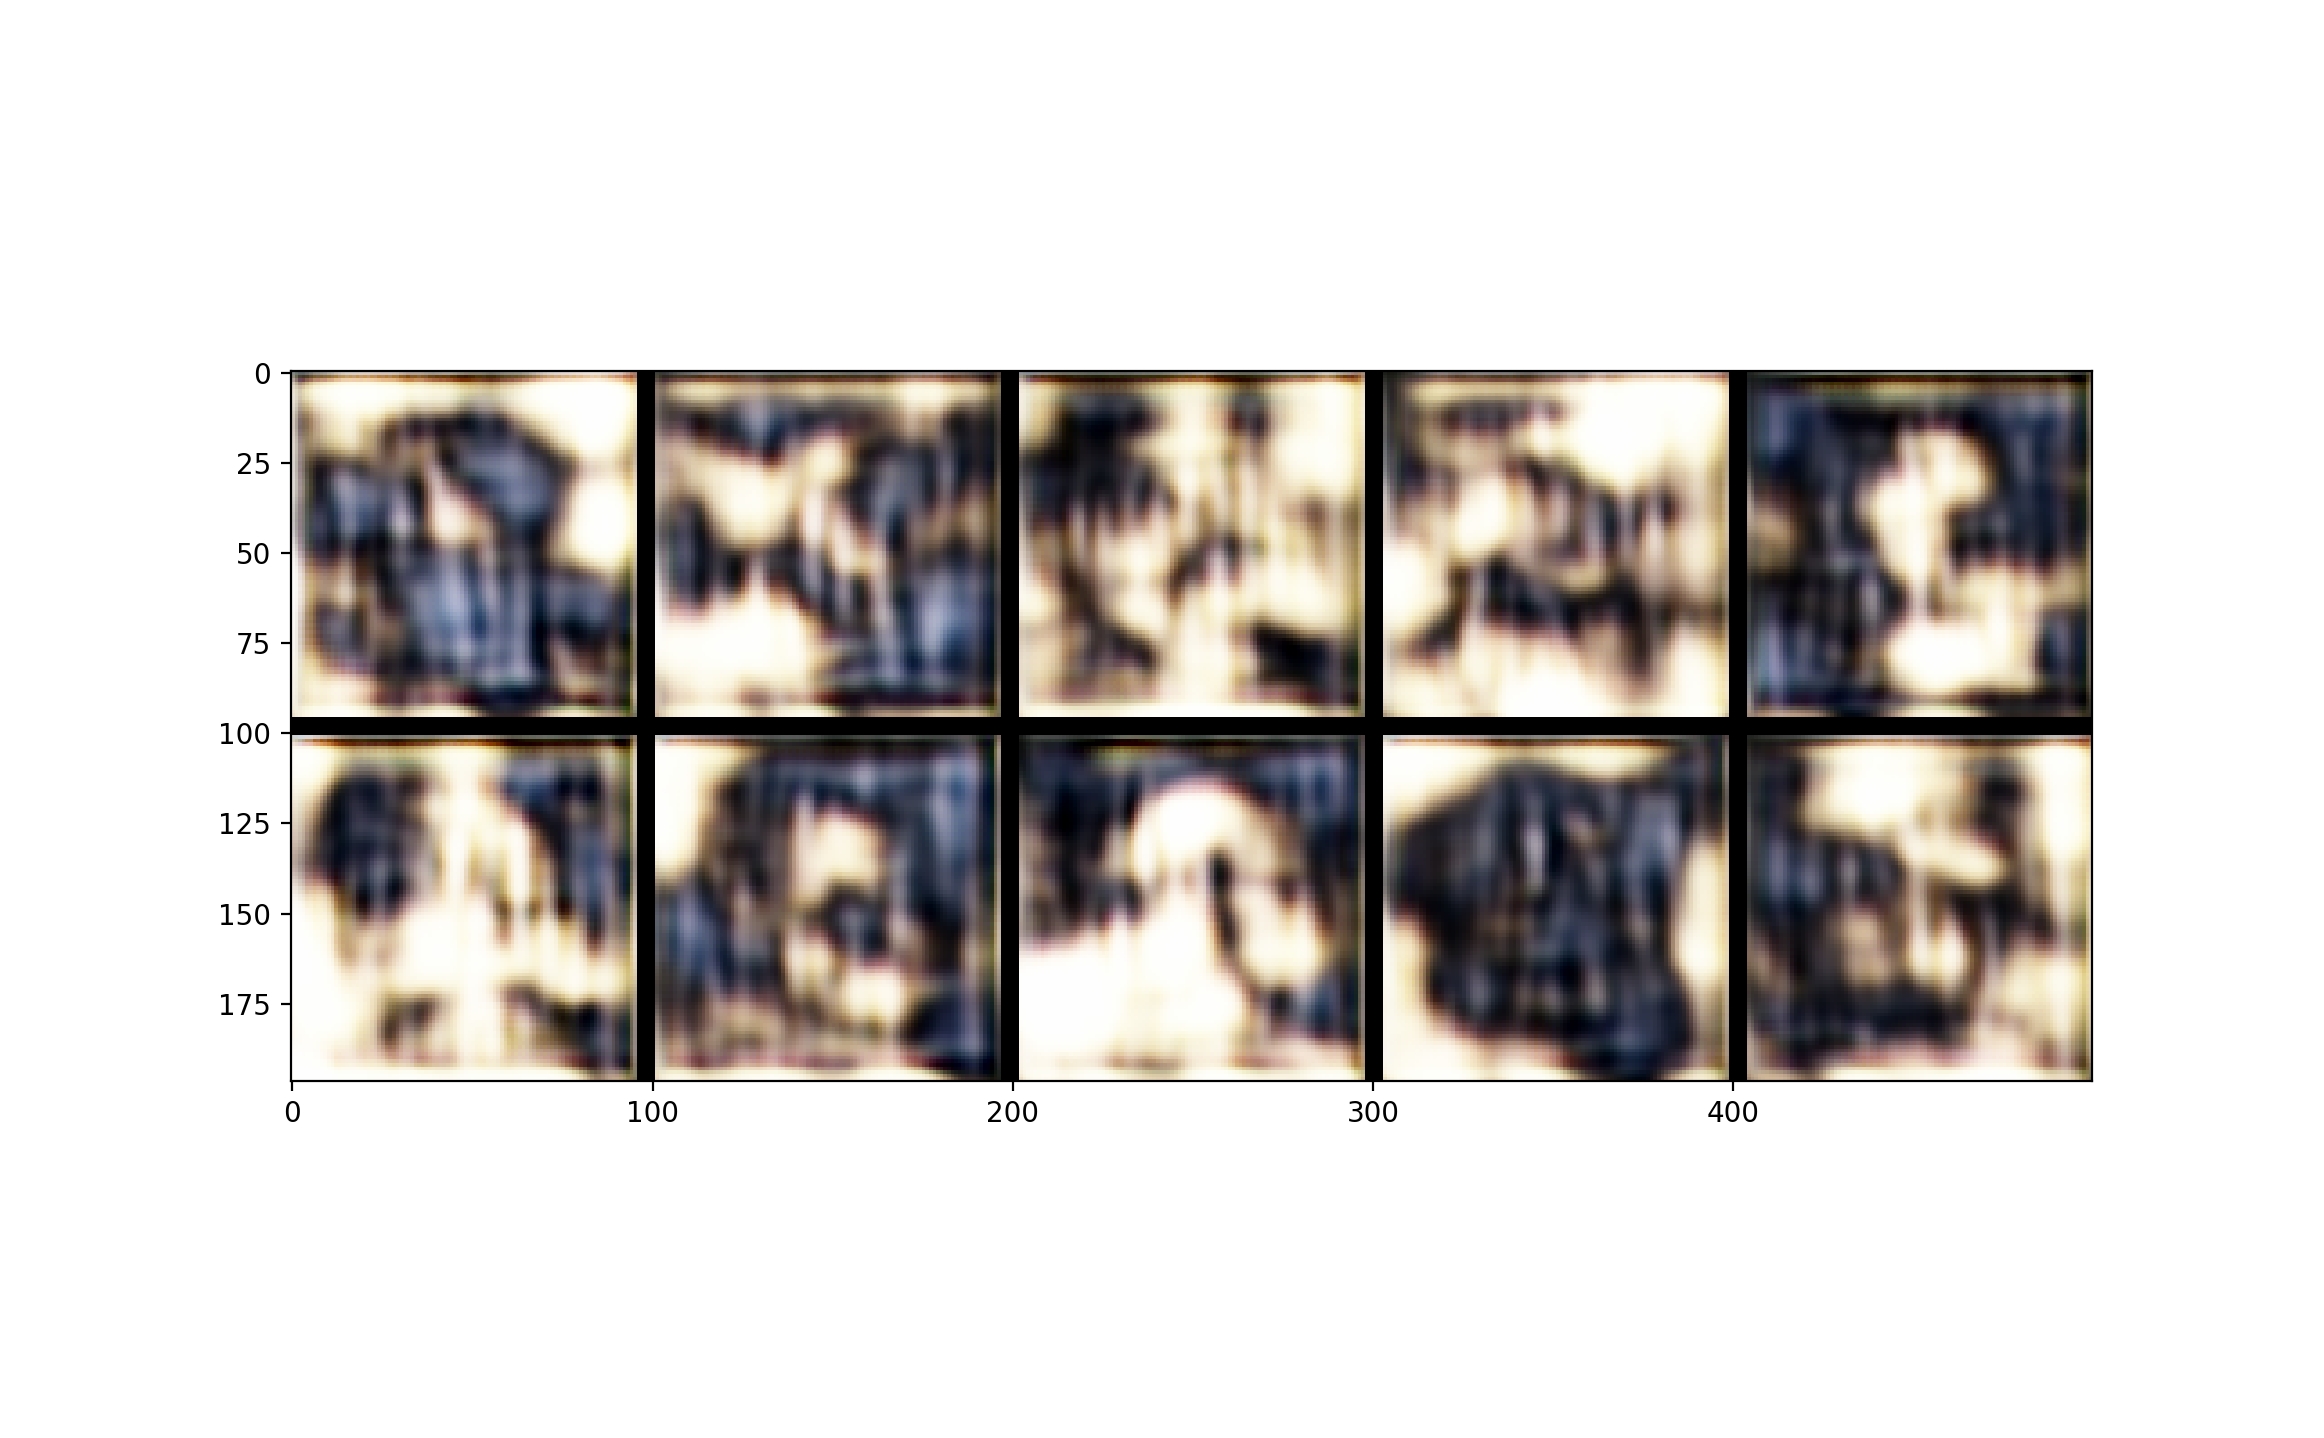
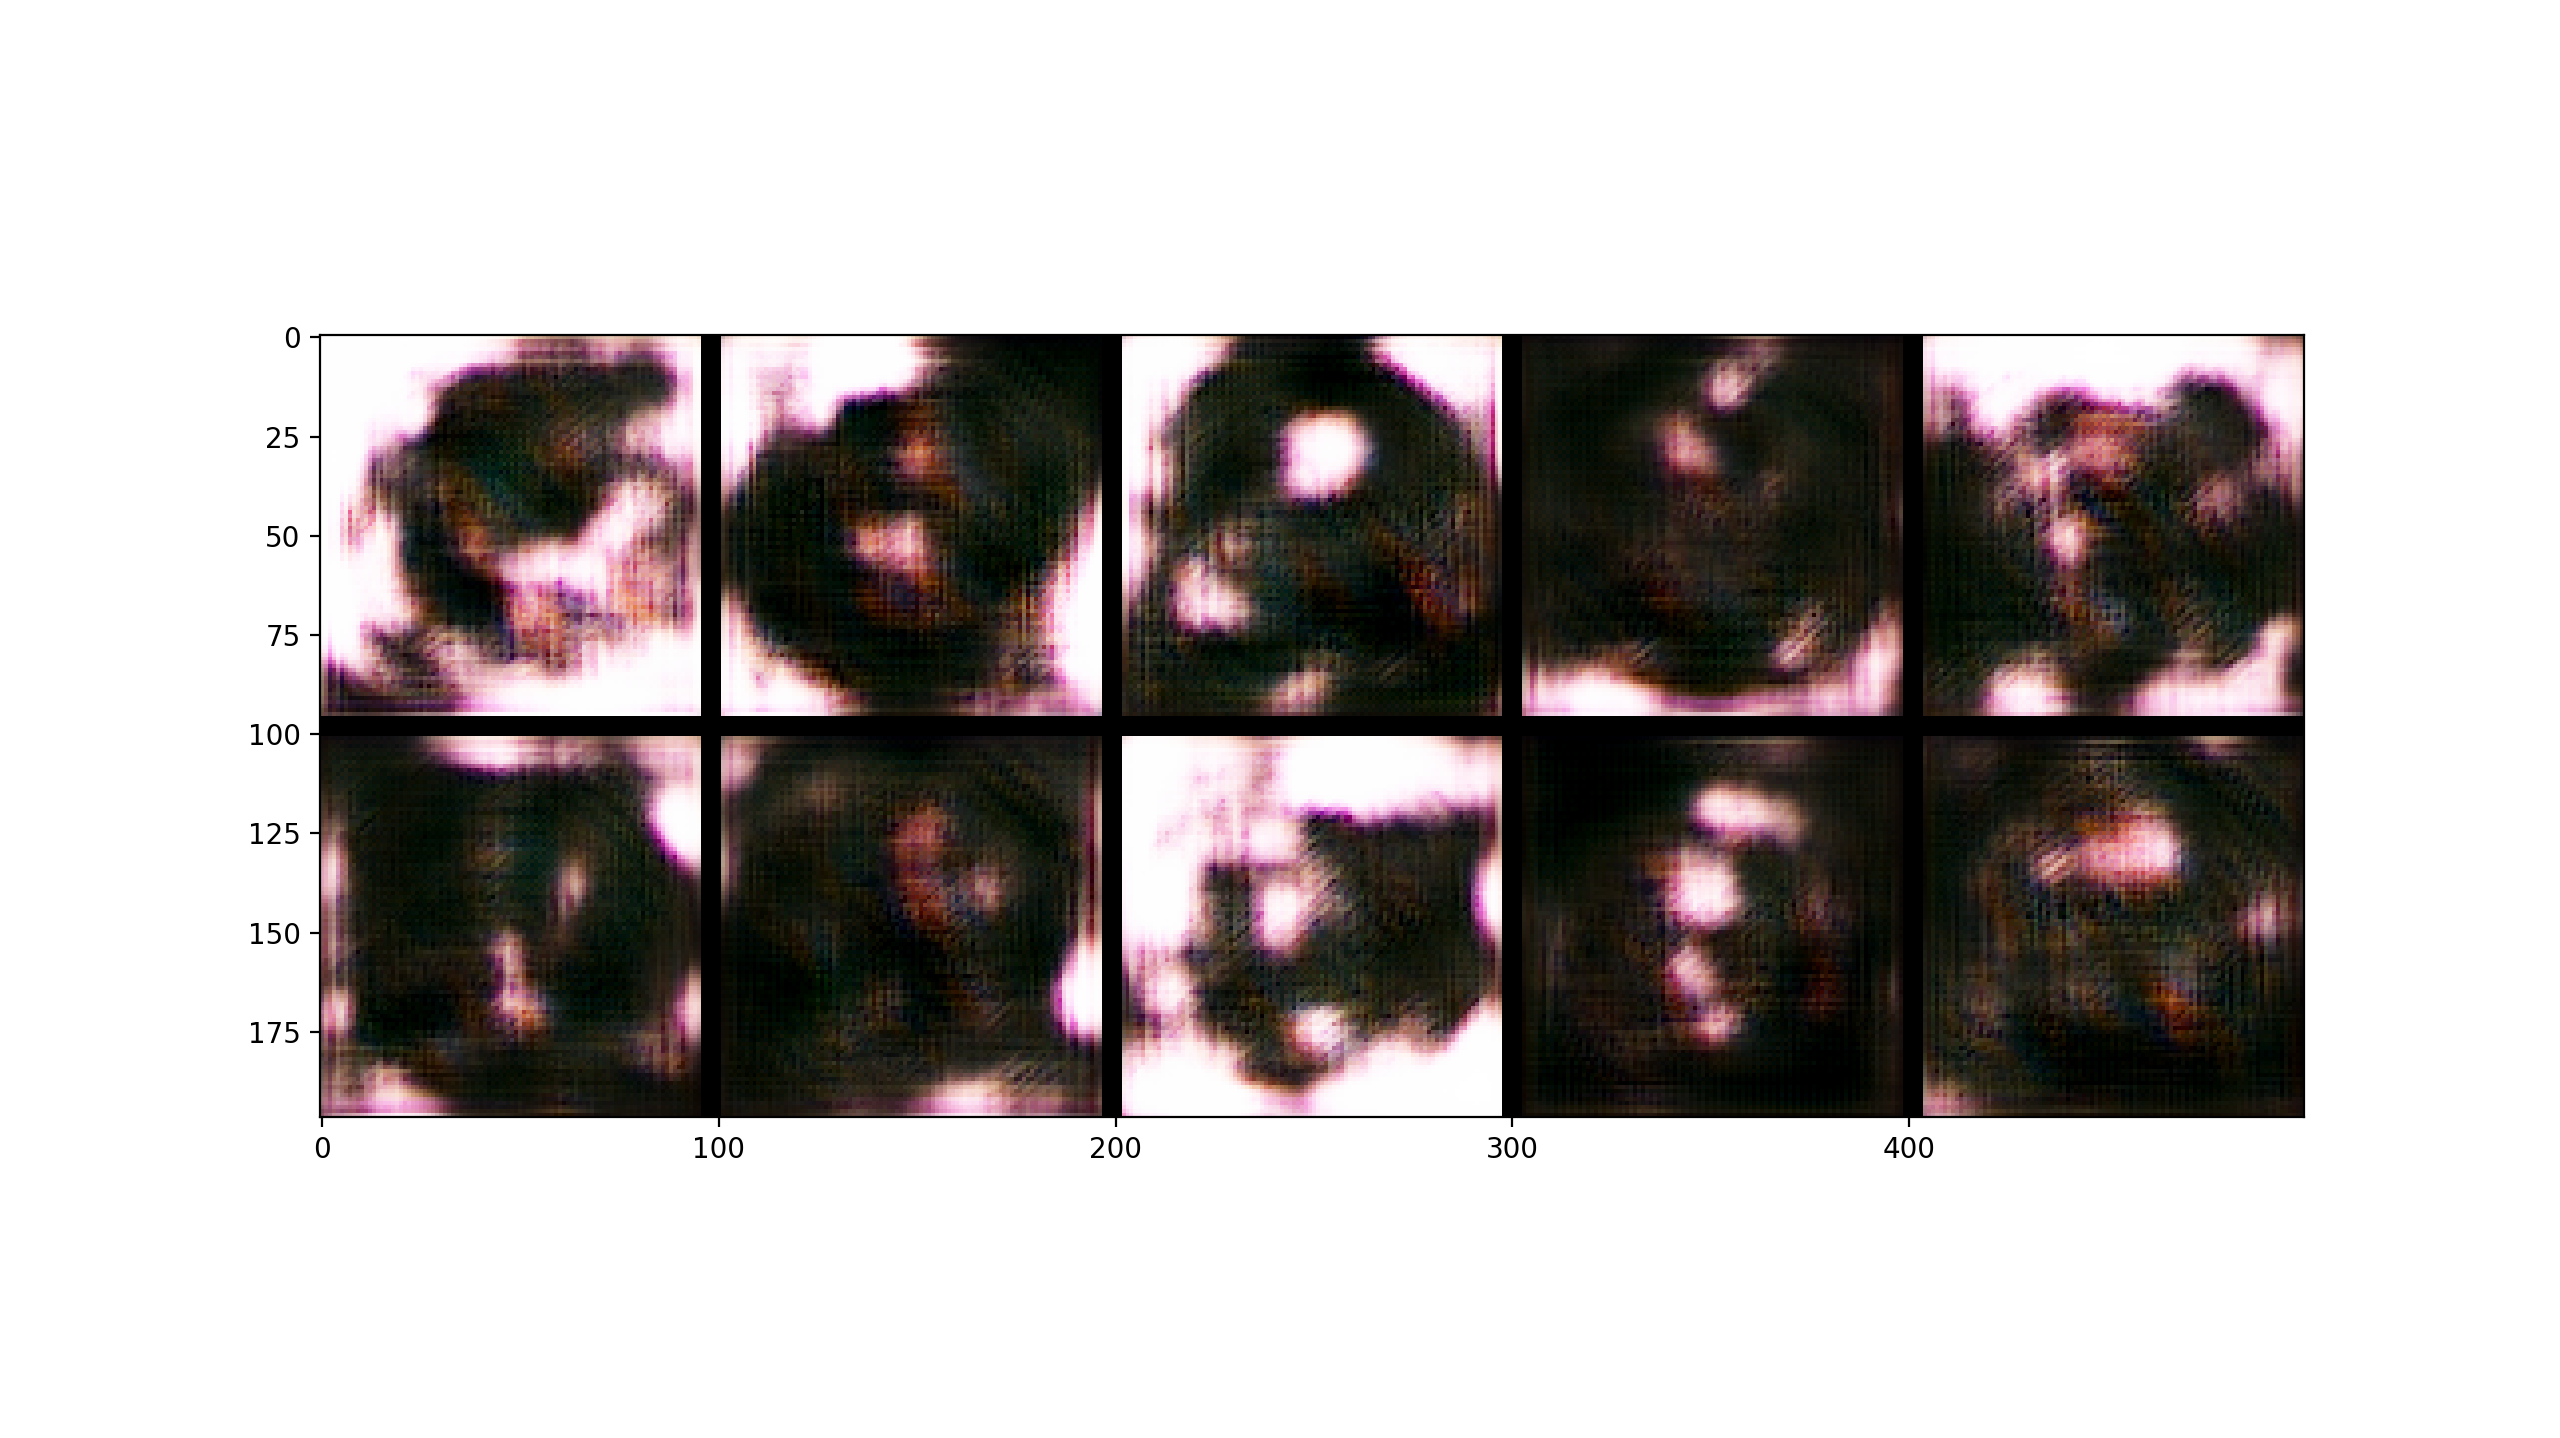
update

diff --git a/gan/test_gan_portrait.py b/gan/test_gan_portrait.py
@@ -77,7 +77,7 @@ gan.compile(optimizer=gan_optimizer, loss='binary_crossentropy')
 import os
 from keras.preprocessing import image
 
-dataset_dir_path = "../variational_autoencoder/images"
+dataset_dir_path = "./images"
 
 data_generator = image.ImageDataGenerator(
     rescale=1. / 255,
@@ -106,7 +106,7 @@ x_train = np.asarray(x_train)
 
 print("Training data shape:", x_train.shape)
 
-iterations = 150
+iterations = 550
 batch_size = 20
 save_dir = './output/'
 
